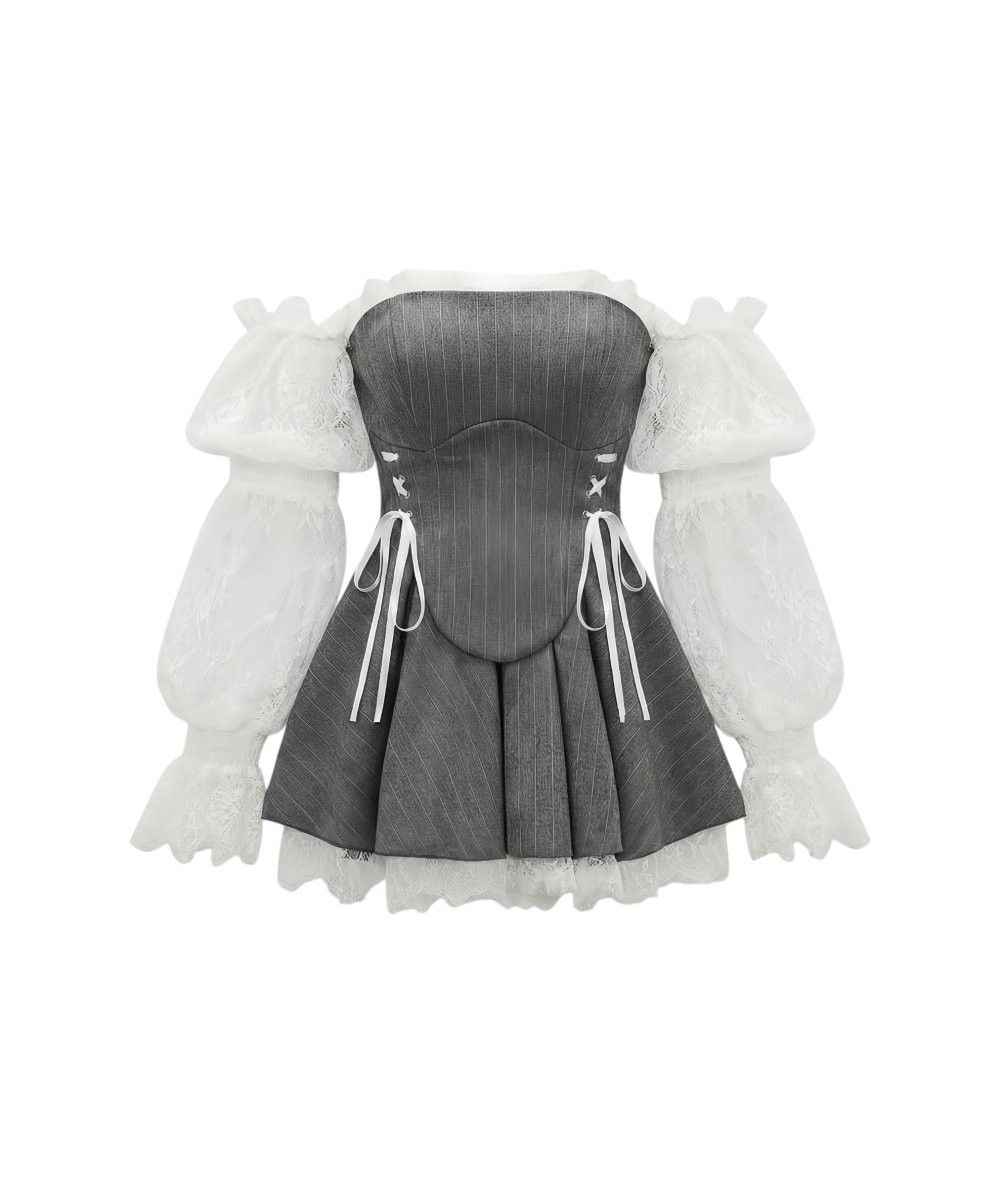
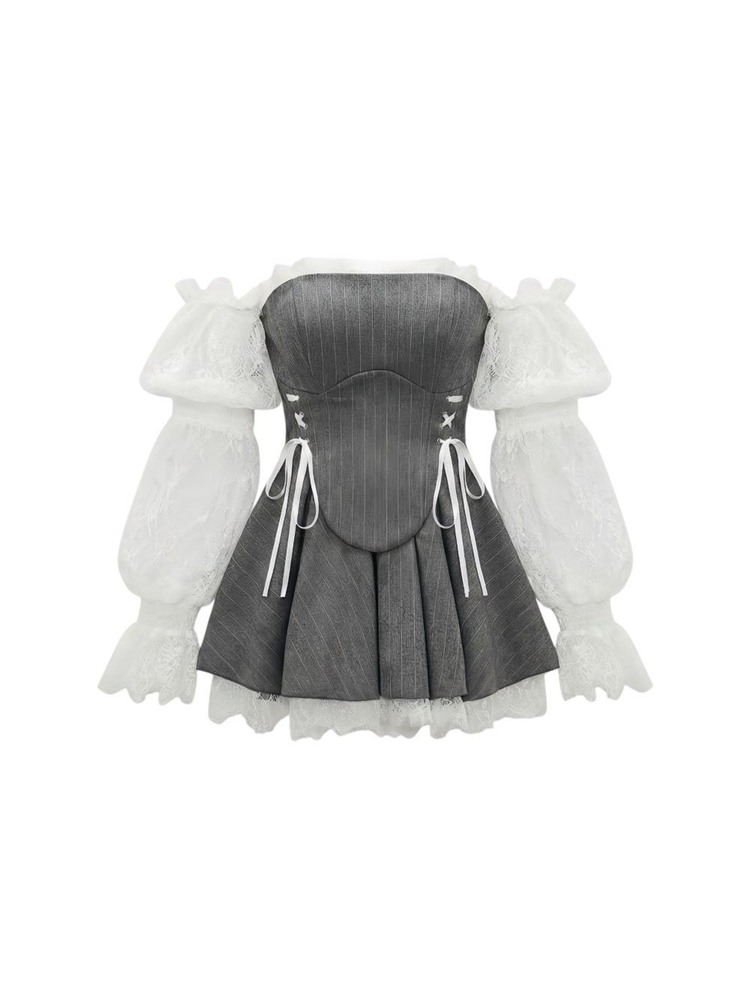
добавить восьмую карточку в раздел Платья с фото и подписью

diff --git a/index.html b/index.html
@@ -376,7 +376,7 @@ h1, h2, h3, .serif { font-family: var(--font-serif); font-weight: 500; line-heig
 .category-card__photo img[src="dresses.jpg"] { object-fit: contain; }
 
 /* платья раздела «Платья»: вещь с полями, как на других карточках */
-.card__photo img[src="dress-corset.jpg"], .card__photo img[src="dress-volany.jpg"], .card__photo img[src="dress-shirt2.jpg"], .card__photo img[src="dress-shirt3.jpg"] { object-fit: contain; mix-blend-mode: multiply; }
+.card__photo img[src="dress-corset.jpg"], .card__photo img[src="dress-volany.jpg"], .card__photo img[src="dress-shirt2.jpg"], .card__photo img[src="dress-shirt3.jpg"], .card__photo img[src="e14458e95252ee275c697a6ba4ade56c.jpg"], .card__photo img[src="dress-gorosh.jpg"], .card__photo img[src="dress-lux.jpg"], .card__photo img[src="dress-tux.jpg"] { object-fit: contain; mix-blend-mode: multiply; }
 
 /* брюки: показываем вещь целиком */
 .category-card__photo img[src="9ce6bdba9d1d812804fd26bbd63a8a39.jpg"] { object-fit: contain; }
@@ -1324,7 +1324,7 @@ h1, h2, h3, .serif { font-family: var(--font-serif); font-weight: 500; line-heig
 
   /* ---------- Разделы категорий: карточки-заглушки, фото добавит заказчик ---------- */
   const CATEGORY_DATA = {
-    dresses:      { title: 'Платья',          base: 18900, photos: { 0: 'dress-volany.jpg', 1: 'dress-corset.jpg', 2: 'dress-shirt3.jpg' } },
+    dresses:      { title: 'Платья',          base: 18900, photos: { 0: 'dress-volany.jpg', 1: 'dress-corset.jpg', 2: 'dress-shirt3.jpg', 3: 'e14458e95252ee275c697a6ba4ade56c.jpg', 4: 'dress-tux.jpg', 5: 'dress-gorosh.jpg', 6: 'dress-lux.jpg', 7: 'dress-tux.jpg' } },
     tops:         { title: 'Топы',            base: 4900  },
     skirts:       { title: 'Юбки',            base: 8400  },
     pants:        { title: 'Брюки',           base: 9900  },
@@ -1350,7 +1350,12 @@ h1, h2, h3, .serif { font-family: var(--font-serif); font-weight: 500; line-heig
   const ITEM_OVERRIDES = {
     'dresses:0': { name: 'Платье с воланами, белое', meta: 'Хлопок · Шелк', price: 6990 },
     'dresses:1': { name: 'Платье-корсет, серое', meta: 'Атлас · Кружево', price: 6459 },
-    'dresses:2': { name: 'Платье-рубашка, серое', meta: 'Лен · Вискоза', price: 7499 }
+    'dresses:2': { name: 'Платье-рубашка, серое', meta: 'Лен · Вискоза', price: 7499 },
+    'dresses:3': { name: 'Платье с рюшами, персик', meta: 'Шифон · Вискоза', price: 5990 },
+    'dresses:4': { name: 'Коктейльное платье с кружевом, крем', meta: 'Атлас · Кружево', price: 5290 },
+    'dresses:5': { name: 'Платье-мини в горошек, черное', meta: 'Хлопок · Атлас', price: 4890 },
+    'dresses:6': { name: 'Вечернее платье с воланами, голубое', meta: 'Атлас · Шифон', price: 9890 },
+    'dresses:7': { name: 'Платье мини с бархатным бантом, крем', meta: 'Атлас · Бархат', price: 8990 }
   };
 
   function phCard(title, price, i, photos, catKey) {
